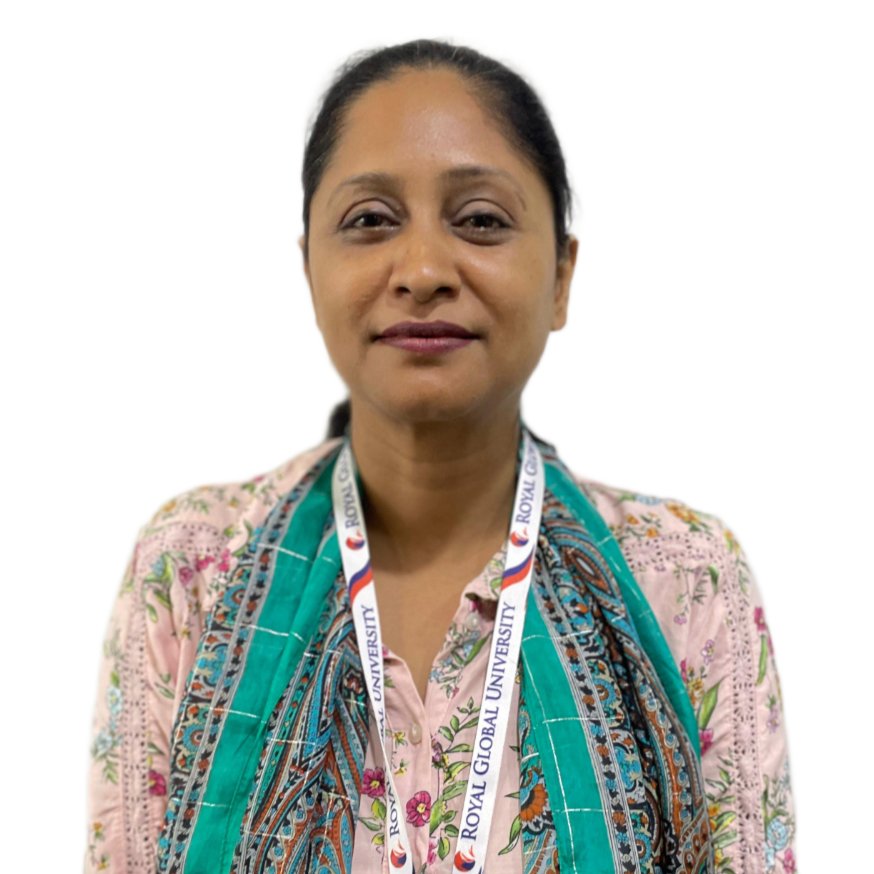
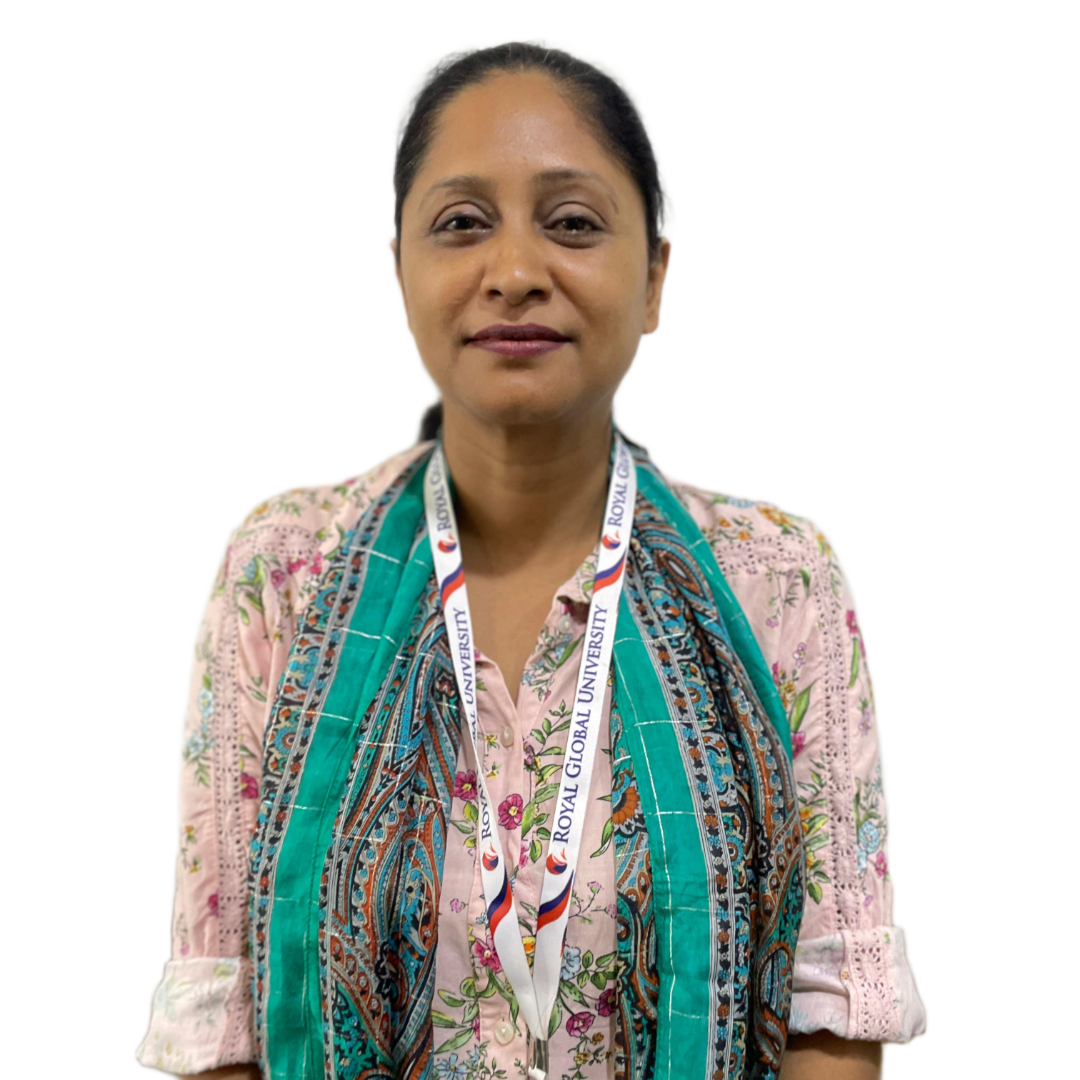
update faculty image

diff --git a/resources/views/frontend/school&faculty/faculty-design.blade.php b/resources/views/frontend/school&faculty/faculty-design.blade.php
@@ -92,7 +92,7 @@
                                 </h5>
                                 <p class="para1" style="color: #27467A; line-height: 1.3;">
                                     Assistant Professor, <br>
-                                    
+
                                 </p>
 
                             </div>
@@ -243,7 +243,7 @@
                         <div class="card rounded d-flex flex-column"
                             style="background-color: #fff; border: none; box-shadow: -1px 3px 5px 0px rgba(0,0,0,0.25); height: 500px;">
                             <div class="p-3">
-                                <img style="height: 310px; width: 100%;" src="mobile-assets/updated-faculty-img/no-pic.png"
+                                <img style="height: 310px; width: 100%;" src="mobile-assets/updated-faculty-img/Barnali-Chakrabarty-RSA.png"
                                     class="img-fluid rounded border" />
                             </div>
 
@@ -265,7 +265,7 @@
                             style="background-color: #fff; border: none; box-shadow: -1px 3px 5px 0px rgba(0,0,0,0.25); height: 500px;">
                             <div class="p-3">
                                 <img style="height: 310px; width: 100%;"
-                                    src="mobile-assets/all-faculty/rsd/interior-design/5.jpeg"
+                                    src="mobile-assets/updated-faculty-img/Barsha-Kunda-RSA.png"
                                     class="img-fluid rounded border" />
                             </div>
 
@@ -392,7 +392,7 @@
                             style="background-color: #fff; border: none; box-shadow: -1px 3px 5px 0px rgba(0,0,0,0.25); height: 500px;">
                             <div class="p-3">
                                 <img style="height: 310px; width: 100%;"
-                                    src="mobile-assets/all-faculty/rsd/interior-design/11.jpeg"
+                                    src="mobile-assets/updated-faculty-img/Pooja-Singh-RSA.png"
                                     class="img-fluid rounded border" />
                             </div>
 
@@ -475,7 +475,7 @@
                             style="background-color: #fff; border: none; box-shadow: -1px 3px 5px 0px rgba(0,0,0,0.25); height: 500px;">
                             <div class="p-3">
                                 <img style="height: 310px; width: 100%;"
-                                    src="mobile-assets/all-faculty/rsd/interior-design/14.jpeg"
+                                    src="mobile-assets/updated-faculty-img/Ritu-Rani-RSD.png"
                                     class="img-fluid rounded border" />
                             </div>
 
@@ -649,7 +649,7 @@
                             style="background-color: #fff; border: none; box-shadow: -1px 3px 5px 0px rgba(0,0,0,0.25); height: 540px;">
                             <div class="p-3">
                                 <img style="height: 310px; width: 100%;"
-                                    src="mobile-assets/all-faculty/rsd/fashion-design/3.jpeg"
+                                    src="mobile-assets/updated-faculty-img/Gazala-Anjum-Goney-RSFT.png"
                                     class="img-fluid rounded border" />
                             </div>
 
@@ -670,7 +670,7 @@
                             style="background-color: #fff; border: none; box-shadow: -1px 3px 5px 0px rgba(0,0,0,0.25); height: 540px;">
                             <div class="p-3">
                                 <img style="height: 310px; width: 100%;"
-                                    src="mobile-assets/all-faculty/rsd/fashion-design/4.jpeg"
+                                    src="mobile-assets/updated-faculty-img/Pubika-Michong-RSFT.png"
                                     class="img-fluid rounded border" />
                             </div>
 
@@ -979,7 +979,7 @@
                         <div class="card rounded d-flex flex-column"
                             style="background-color: #fff; border: none; box-shadow: -1px 3px 5px 0px rgba(0,0,0,0.25); height: 500px;">
                             <div class="p-3">
-                                <img style="height: 310px; width: 100%;" src="mobile-assets/updated-faculty-img/no-pic.png"
+                                <img style="height: 310px; width: 100%;" src="mobile-assets/updated-faculty-img/Barnali-Chakrabarty-RSA.png"
                                     class="img-fluid rounded border" />
                             </div>
 
@@ -1001,7 +1001,7 @@
                             style="background-color: #fff; border: none; box-shadow: -1px 3px 5px 0px rgba(0,0,0,0.25); height: 500px;">
                             <div class="p-3">
                                 <img style="height: 310px; width: 100%;"
-                                    src="mobile-assets/all-faculty/rsd/interior-design/5.jpeg"
+                                    src="mobile-assets/updated-faculty-img/Barsha-Kunda-RSA.png"
                                     class="img-fluid rounded border" />
                             </div>
 
@@ -1128,7 +1128,7 @@
                             style="background-color: #fff; border: none; box-shadow: -1px 3px 5px 0px rgba(0,0,0,0.25); height: 500px;">
                             <div class="p-3">
                                 <img style="height: 310px; width: 100%;"
-                                    src="mobile-assets/all-faculty/rsd/interior-design/11.jpeg"
+                                    src="mobile-assets/updated-faculty-img/Pooja-Singh-RSA.png"
                                     class="img-fluid rounded border" />
                             </div>
 
@@ -1211,7 +1211,7 @@
                             style="background-color: #fff; border: none; box-shadow: -1px 3px 5px 0px rgba(0,0,0,0.25); height: 500px;">
                             <div class="p-3">
                                 <img style="height: 310px; width: 100%;"
-                                    src="mobile-assets/all-faculty/rsd/interior-design/14.jpeg"
+                                    src="mobile-assets/updated-faculty-img/Ritu-Rani-RSD.png"
                                     class="img-fluid rounded border" />
                             </div>
 
@@ -1384,7 +1384,7 @@
                             style="background-color: #fff; border: none; box-shadow: -1px 3px 5px 0px rgba(0,0,0,0.25); height: 540px;">
                             <div class="p-3">
                                 <img style="height: 310px; width: 100%;"
-                                    src="mobile-assets/all-faculty/rsd/fashion-design/3.jpeg"
+                                    src="mobile-assets/updated-faculty-img/Gazala-Anjum-Goney-RSFT.png"
                                     class="img-fluid rounded border" />
                             </div>
 
@@ -1405,7 +1405,7 @@
                             style="background-color: #fff; border: none; box-shadow: -1px 3px 5px 0px rgba(0,0,0,0.25); height: 540px;">
                             <div class="p-3">
                                 <img style="height: 310px; width: 100%;"
-                                    src="mobile-assets/all-faculty/rsd/fashion-design/4.jpeg"
+                                    src="mobile-assets/updated-faculty-img/Pubika-Michong-RSFT.png"
                                     class="img-fluid rounded border" />
                             </div>
 

diff --git a/resources/views/frontend/school&faculty/faculty-bio-sciences.blade.php b/resources/views/frontend/school&faculty/faculty-bio-sciences.blade.php
@@ -141,7 +141,7 @@
                         <div class="card rounded d-flex flex-column"
                             style="background-color: #fff; border: none; box-shadow: -1px 3px 5px 0px rgba(0,0,0,0.25); ">
                             <div class="p-3">
-                                <img style="height: 310px; width: 100%;" src="mobile-assets/all-faculty/rsbsc/4.jpeg"
+                                <img style="height: 310px; width: 100%;" src="mobile-assets/updated-faculty-img/Debajit-Borah-RSBSC.png"
                                     class="img-fluid rounded border" />
                             </div>
                             <div class="card-body d-flex flex-column flex-grow-1">
@@ -228,7 +228,7 @@
                         <div class="card rounded d-flex flex-column"
                             style="background-color: #fff; border: none; box-shadow: -1px 3px 5px 0px rgba(0,0,0,0.25); ">
                             <div class="p-3">
-                                <img style="height: 310px; width: 100%;" src="mobile-assets/all-faculty/rsbsc/8.jpeg"
+                                <img style="height: 310px; width: 100%;" src="mobile-assets/updated-faculty-img/Mousumi-Das-Goswami-RSBSC.png"
                                     class="img-fluid rounded border" />
                             </div>
                             <div class="card-body d-flex flex-column flex-grow-1">
@@ -334,7 +334,7 @@
                         <div class="card rounded d-flex flex-column"
                             style="background-color: #fff; border: none; box-shadow: -1px 3px 5px 0px rgba(0,0,0,0.25); ">
                             <div class="p-3">
-                                <img style="height: 310px; width: 100%;" src="mobile-assets/all-faculty/rsbsc/12.jpeg"
+                                <img style="height: 310px; width: 100%;" src="mobile-assets/updated-faculty-img/Amlan-Das-RSBSC.png"
                                     class="img-fluid rounded border" />
                             </div>
                             <div class="card-body d-flex flex-column flex-grow-1">
@@ -872,7 +872,7 @@
                         <div class="card rounded d-flex flex-column"
                             style="background-color: #fff; border: none; box-shadow: -1px 3px 5px 0px rgba(0,0,0,0.25); height: 520px;">
                             <div class="p-3">
-                                <img style="height: 310px; width: 100%;" src="mobile-assets/all-faculty/rsbsc/4.jpeg"
+                                <img style="height: 310px; width: 100%;" src="mobile-assets/updated-faculty-img/Debajit-Borah-RSBSC.png"
                                     class="img-fluid rounded border" />
                             </div>
                             <div class="card-body d-flex flex-column flex-grow-1">
@@ -960,7 +960,7 @@
                         <div class="card rounded d-flex flex-column"
                             style="background-color: #fff; border: none; box-shadow: -1px 3px 5px 0px rgba(0,0,0,0.25); height: 520px;">
                             <div class="p-3">
-                                <img style="height: 310px; width: 100%;" src="mobile-assets/all-faculty/rsbsc/8.jpeg"
+                                <img style="height: 310px; width: 100%;" src="mobile-assets/updated-faculty-img/Mousumi-Das-Goswami-RSBSC.png"
                                     class="img-fluid rounded border" />
                             </div>
                             <div class="card-body d-flex flex-column flex-grow-1">
@@ -1065,7 +1065,7 @@
                         <div class="card rounded d-flex flex-column"
                             style="background-color: #fff; border: none; box-shadow: -1px 3px 5px 0px rgba(0,0,0,0.25); height: 500px;">
                             <div class="p-3">
-                                <img style="height: 310px; width: 100%;" src="mobile-assets/all-faculty/rsbsc/12.jpeg"
+                                <img style="height: 310px; width: 100%;" src="mobile-assets/updated-faculty-img/Amlan-Das-RSBSC.png"
                                     class="img-fluid rounded border" />
                             </div>
                             <div class="card-body d-flex flex-column flex-grow-1">

diff --git a/resources/views/frontend/school&faculty/faculty-engineeringtechnology.blade.php b/resources/views/frontend/school&faculty/faculty-engineeringtechnology.blade.php
@@ -272,7 +272,7 @@
                         <div class="card rounded d-flex flex-column"
                             style="background-color: #fff; border: none; box-shadow: -1px 3px 5px 0px rgba(0,0,0,0.25); ">
                             <div class="p-3">
-                                <img style="height: 310px; width: 100%;" src="mobile-assets/all-faculty/rset/cse/11.jpeg"
+                                <img style="height: 310px; width: 100%;" src="mobile-assets/updated-faculty-img/Saurabh-Sutradhar-RSET.png"
                                     class="img-fluid rounded border" />
                             </div>
                             <div class="card-body d-flex flex-column flex-grow-1">
@@ -594,7 +594,7 @@
                             style="background-color: #fff; border: none; box-shadow: -1px 3px 5px 0px rgba(0,0,0,0.25); ">
                             <div class="p-3">
                                 <img style="height: 290px; width: 100%;"
-                                    src="mobile-assets/all-faculty/rset/civil-engg/5.jpg"
+                                    src="mobile-assets/updated-faculty-img/Shehnaz-Ara-Rahman-RSET.png"
                                     class="img-fluid rounded border" />
                             </div>
                             <div class="card-body d-flex flex-column flex-grow-1">
@@ -999,7 +999,7 @@
                         <div class="card rounded d-flex flex-column"
                             style="background-color: #fff; border: none; box-shadow: -1px 3px 5px 0px rgba(0,0,0,0.25); height: 520px;">
                             <div class="p-3">
-                                <img style="height: 310px; width: 100%;" src="mobile-assets/all-faculty/rset/cse/11.jpeg"
+                                <img style="height: 310px; width: 100%;" src="mobile-assets/updated-faculty-img/Saurabh-Sutradhar-RSET.png"
                                     class="img-fluid rounded border" />
                             </div>
                             <div class="card-body d-flex flex-column flex-grow-1">
@@ -1323,7 +1323,7 @@
                             style="background-color: #fff; border: none; box-shadow: -1px 3px 5px 0px rgba(0,0,0,0.25); height: 510px;">
                             <div class="p-3">
                                 <img style="height: 290px; width: 100%;"
-                                    src="mobile-assets/all-faculty/rset/civil-engg/5.jpg"
+                                    src="mobile-assets/updated-faculty-img/Shehnaz-Ara-Rahman-RSET.png"
                                     class="img-fluid rounded border" />
                             </div>
                             <div class="card-body d-flex flex-column flex-grow-1">

diff --git a/resources/views/frontend/school&faculty/faculty-applied-purescience.blade.php b/resources/views/frontend/school&faculty/faculty-applied-purescience.blade.php
@@ -643,7 +643,7 @@
                   style="background-color: #fff; border: none; box-shadow: -1px 3px 5px 0px rgba(0,0,0,0.25); ">
                   <div class="p-3">
                     <img style="height: 310px; width: 100%;"
-                      src="mobile-assets/all-faculty/rsaps/sankar-barman.jpg"
+                      src="mobile-assets/updated-faculty-img/Sankar-Barman-RSAPS.jpeg"
                       class="img-fluid rounded border" />
                   </div>
                   <div class="card-body d-flex flex-column flex-grow-1">
@@ -728,7 +728,7 @@
                 <div class="card rounded d-flex flex-column"
                   style="background-color: #fff; border: none; box-shadow: -1px 3px 5px 0px rgba(0,0,0,0.25); ">
                   <div class="p-3">
-                    <img style="height: 310px; width: 100%;" src="mobile-assets/updated-faculty-img/Dr-Nitu-Borgohain.png"
+                    <img style="height: 310px; width: 100%;" src="mobile-assets/updated-faculty-img/Nitu-Borgohain-RSAPS.png"
                       class="img-fluid rounded border" />
                   </div>
                   <div class="card-body d-flex flex-column flex-grow-1">
@@ -1413,7 +1413,7 @@
                   style="background-color: #fff; border: none; box-shadow: -1px 3px 5px 0px rgba(0,0,0,0.25); height: 530px;">
                   <div class="p-3">
                     <img style="height: 310px; width: 100%;"
-                      src="mobile-assets/all-faculty/rsaps/sankar-barman.jpg"
+                      src="mobile-assets/updated-faculty-img/Sankar-Barman-RSAPS.jpeg"
                       class="img-fluid rounded border" />
                   </div>
                   <div class="card-body d-flex flex-column flex-grow-1">
@@ -1498,7 +1498,7 @@
                 <div class="card rounded d-flex flex-column"
                   style="background-color: #fff; border: none; box-shadow: -1px 3px 5px 0px rgba(0,0,0,0.25); height: 530px;">
                   <div class="p-3">
-                    <img style="height: 310px; width: 100%;" src="mobile-assets/updated-faculty-img/Dr-Nitu-Borgohain.png"
+                    <img style="height: 310px; width: 100%;" src="mobile-assets/updated-faculty-img/Nitu-Borgohain-RSAPS.png"
                       class="img-fluid rounded border" />
                   </div>
                   <div class="card-body d-flex flex-column flex-grow-1">

diff --git a/resources/views/frontend/school&faculty/faculty-architecture.blade.php b/resources/views/frontend/school&faculty/faculty-architecture.blade.php
@@ -107,7 +107,7 @@
                         <div class="card rounded d-flex flex-column"
                             style="background-color: #fff; border: none; box-shadow: -1px 3px 5px 0px rgba(0,0,0,0.25); height: 480px;">
                             <div class="p-3">
-                                <img style="height: 300px; width: 100%;" src="mobile-assets/updated-faculty-img/no-pic.png"
+                                <img style="height: 300px; width: 100%;" src="mobile-assets/updated-faculty-img/Barnali-Chakrabarty-RSA.png"
                                     class="img-fluid rounded border" />
                             </div>
                             <div class="card-body d-flex flex-column flex-grow-1">
@@ -436,7 +436,7 @@
                         <div class="card rounded d-flex flex-column"
                             style="background-color: #fff; border: none; box-shadow: -1px 3px 5px 0px rgba(0,0,0,0.25); height: 480px;">
                             <div class="p-3">
-                                <img style="height: 300px; width: 100%;" src="mobile-assets/updated-faculty-img/no-pic.png"
+                                <img style="height: 300px; width: 100%;" src="mobile-assets/updated-faculty-img/Barnali-Chakrabarty-RSA.png"
                                     class="img-fluid rounded border" />
                             </div>
                             <div class="card-body d-flex flex-column flex-grow-1">

diff --git a/resources/views/frontend/school&faculty/faculty-finearts.blade.php b/resources/views/frontend/school&faculty/faculty-finearts.blade.php
@@ -81,7 +81,7 @@
                         <div class="card rounded d-flex flex-column"
                             style="background-color: #fff; border: none; box-shadow: -1px 3px 5px 0px rgba(0,0,0,0.25); ">
                             <div class="p-3">
-                                <img style="height: 310px; width: 100%;" src="mobile-assets/all-faculty/rsfa/4.jpg"
+                                <img style="height: 310px; width: 100%;" src="mobile-assets/updated-faculty-img/Siddhant-Medhi-RSFA.png"
                                     class="img-fluid rounded border" />
                             </div>
                             <div class="card-body d-flex flex-column flex-grow-1">
@@ -232,7 +232,7 @@
                         <div class="card rounded d-flex flex-column"
                             style="background-color: #fff; border: none; box-shadow: -1px 3px 5px 0px rgba(0,0,0,0.25); height: 500px;">
                             <div class="p-3">
-                                <img style="height: 310px; width: 100%;" src="mobile-assets/all-faculty/rsfa/4.jpg"
+                                <img style="height: 310px; width: 100%;" src="mobile-assets/updated-faculty-img/Siddhant-Medhi-RSFA.png"
                                     class="img-fluid rounded border" />
                             </div>
                             <div class="card-body d-flex flex-column flex-grow-1">

diff --git a/resources/views/frontend/school&faculty/faculty-business.blade.php b/resources/views/frontend/school&faculty/faculty-business.blade.php
@@ -175,7 +175,7 @@
                             style="background-color: #fff; border: none; box-shadow: -1px 3px 5px 0px rgba(0,0,0,0.25); height: 500px;">
                             <div class="p-3">
                                 <img style="height: 310px; width: 100%;"
-                                    src="https://bucket-0534zd.s3.ap-south-1.amazonaws.com/mobile-assets/all-faculty/rsb/7.jpeg"
+                                    src="mobile-assets/updated-faculty-img/Santosh-K-Anand-RSB.png"
                                     class="img-fluid rounded border" />
                             </div>
                             <div class="card-body d-flex flex-column flex-grow-1">
@@ -497,7 +497,7 @@
                             style="background-color: #fff; border: none; box-shadow: -1px 3px 5px 0px rgba(0,0,0,0.25); height: 500px;">
                             <div class="p-3">
                                 <img style="height: 300px; width: 100%;"
-                                    src="https://bucket-0534zd.s3.ap-south-1.amazonaws.com/mobile-assets/all-faculty/rsb/7.jpeg"
+                                    src="mobile-assets/updated-faculty-img/Santosh-K-Anand-RSB.png"
                                     class="img-fluid rounded border" />
                             </div>
                             <div class="card-body d-flex flex-column flex-grow-1">
